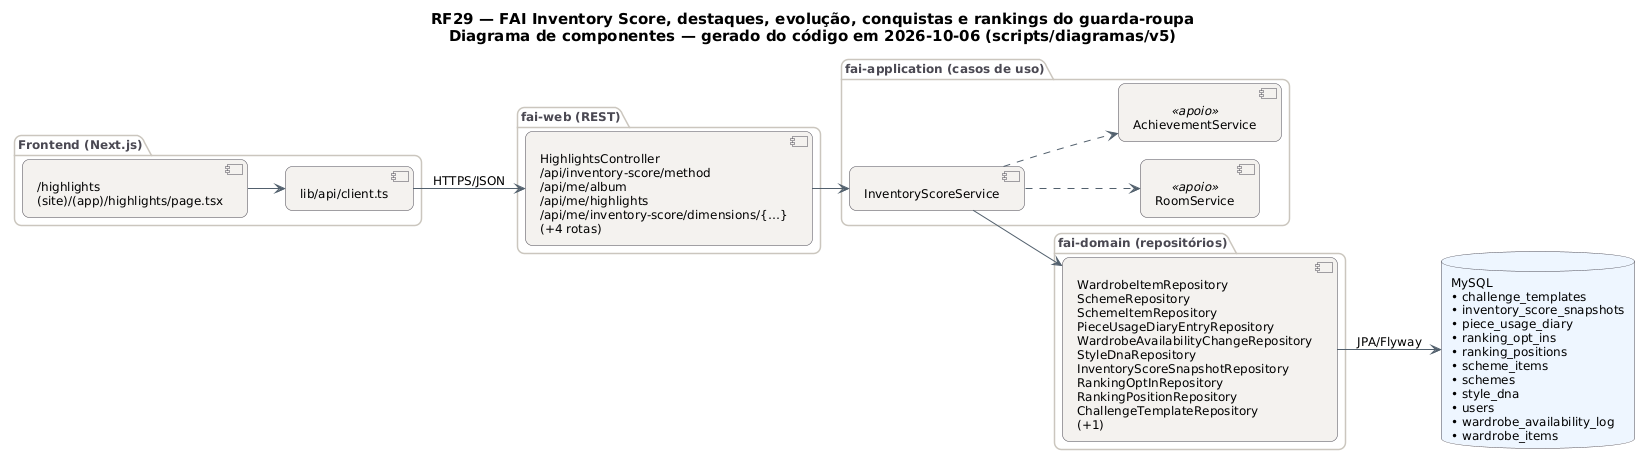
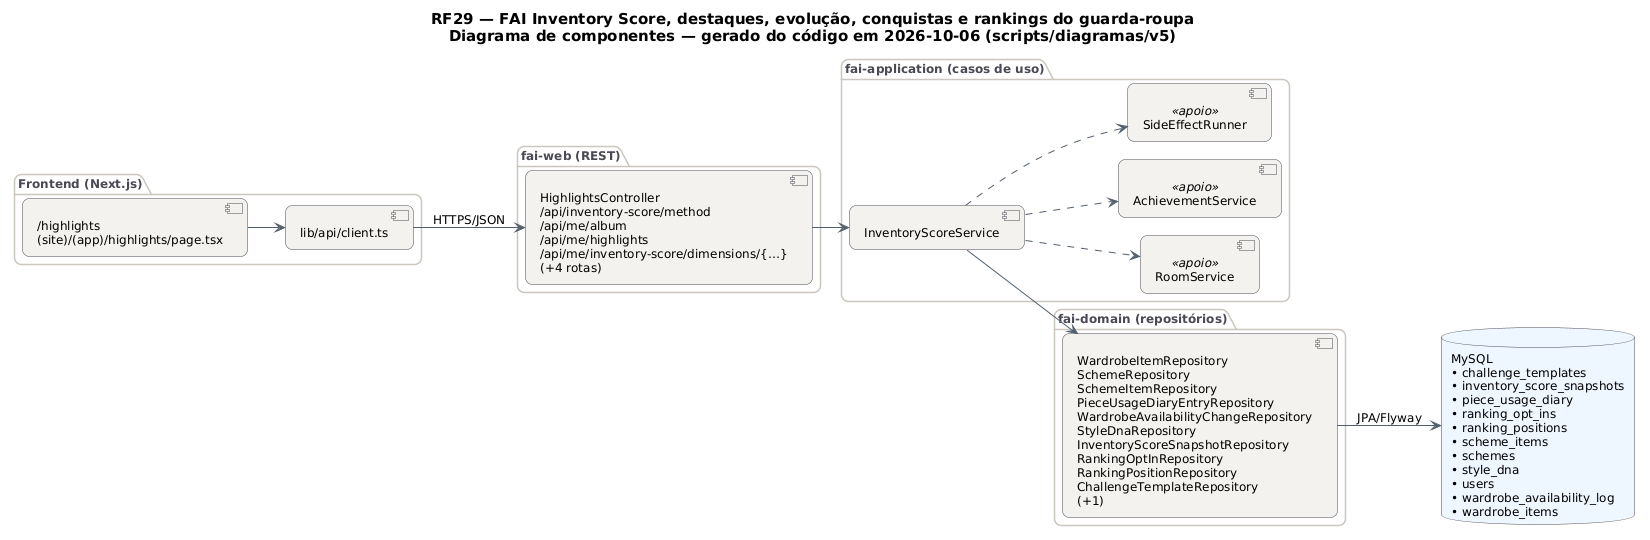
Espelho: escolher qualquer peça do guarda-roupa por parte do look (WARDROBE-FIX)
- Novo GET /api/me/mirror/wardrobe?slot=: lista todas as peças elegíveis
  do slot (mesmas regras do Vista-me: disponíveis, na estação, permitidas
  pelo desafio), marca as que já estão no espelho e não usa IA. Slot vazio
  devolve a mensagem e o link para cadastrar peça.
- Tela do espelho: botão "Do guarda-roupa" em cada parte do look, ao lado
  do "Sugerir"; a linha quebra em telas estreitas.
- Quarto: "Levar ao espelho" fecha a etiqueta e foca o espelho.
- POST /api/me/mirror/pieces sem pieceId devolve 400 PECA_OBRIGATORIA
  (antes: 500 ao buscar id nulo); slotOf aceita peça sem subcategoria.
- InventoryScoreService grava o snapshot do dia/mês e as conquistas em
  transação própria: o quarto pede /api/me/room e /room/list juntos e a
  segunda gravação batia em uq_inv_snap, devolvendo 500 à tela.
- Diagramas do RF28/RF29 regenerados com a rota e a validação novas.

Testes: MirrorWardrobePickerTest (4), suíte do backend e do frontend,
typecheck, i18n:check; ponta a ponta local com Playwright no espelho e
no quarto; 20 leituras simultâneas do quarto sem nenhum 500.

Claude-Session: https://claude.ai/code/session_01F9izb54cwzjj9BQQabn6GG

diff --git a/app/(site)/(app)/mirror/page.tsx b/app/(site)/(app)/mirror/page.tsx
@@ -10,7 +10,7 @@ import { Button, Card, Dialog, ErrorState, Field, Input, PageHeader, SegmentPick
 import { FaiIcon } from "@/components/fai-icon";
 import { MirrorStage, MirrorWornStrip, type MirrorMode } from "@/components/mirror/mirror-stage";
 
-interface MPiece { id: string; name: string; imageUrl?: string; thumbnailUrl?: string; category?: string; subcategory?: string; color?: string; colorHex?: string; addressLabel?: string; }
+interface MPiece { id: string; name: string; imageUrl?: string; thumbnailUrl?: string; category?: string; subcategory?: string; color?: string; colorHex?: string; addressLabel?: string; inMirror?: boolean; }
 interface State { slots: Record<string, MPiece | MPiece[] | null>; complete: boolean; missing: { slot: string; action: string; message: string }[]; warnings?: string[]; origin?: string; prompt?: string | null; interpretation?: Record<string, unknown> | null; actions?: string[]; silhouette?: string | null; postIt?: string | null; light?: { kelvin: number; label?: string }; restriction?: { challenge: string } | null; shownCount?: number; }
 const SLOT_LABEL: Record<string, string> = { get outer_layer() { return tr("common.camada_externa"); }, get upper() { return tr("common.superior"); }, get dress() { return tr("mirror.vestido"); }, get lower() { return tr("common.inferior"); }, get shoes() { return tr("mirror.calcados"); }, get accessory() { return tr("mirror.acessorios"); } };
 
@@ -20,7 +20,9 @@ function MirrorInner() {
   const [prompt, setPrompt] = useState(""); const [keep, setKeep] = useState(false); const [busy, setBusy] = useState<string | null>(null);
   // Reflexo 3D (cena viva) ou Prévia 2D (a foto parada do mesmo avatar); ?vista=2d abre direto na prévia
   const [mode, setMode] = useState<MirrorMode>(() => (sp.get("vista") === "2d" ? "2d" : "3d"));
-  const [suggest, setSuggest] = useState<{ slot: string; alternatives: MPiece[]; message?: string } | null>(null); const [grwm, setGrwm] = useState<{ steps?: { title?: string; text?: string; pieceId?: string }[]; title?: string } | null>(null); const [saveTitle, setSaveTitle] = useState<string | null>(null);
+  const [suggest, setSuggest] = useState<{ slot: string; alternatives: MPiece[]; message?: string } | null>(null);
+  // escolher à mão, do guarda-roupa (sem IA): todas as peças que podem ir para o slot
+  const [pick, setPick] = useState<{ slot: string; pieces: MPiece[]; message?: string; href?: string } | null>(null); const [grwm, setGrwm] = useState<{ steps?: { title?: string; text?: string; pieceId?: string }[]; title?: string } | null>(null); const [saveTitle, setSaveTitle] = useState<string | null>(null);
   useEffect(() => { const pid = sp.get("piece"); if (pid) api.post<State>("/api/me/mirror/pieces", { pieceId: pid }).then(setData).catch((e) => toast.fromError(e)); }, [sp]); // eslint-disable-line react-hooks/exhaustive-deps
   const run = async (key: string, fn: () => Promise<State | Record<string, unknown>>, ok?: string) => { setBusy(key); try { const r = await fn(); if ((r as State).slots) setData(r as State); else reload(); if (ok) toast.success(ok); if ((r as { message?: string }).message && !(r as State).slots) toast.info(String((r as { message?: string }).message)); return r; } catch (e) { toast.fromError(e); } finally { setBusy(null); } };
   if (error) return <ErrorState error={error} onRetry={reload} />;
@@ -65,7 +67,7 @@ function MirrorInner() {
           </Card>
           <Card>
             <h2 className="type-h3 mb-2">{t("mirror.slots")}</h2>
-            <ul className="fai-list">{Object.entries(SLOT_LABEL).map(([slot, lbl]) => { const v = data.slots[slot]; const items = Array.isArray(v) ? v : v ? [v] : []; const miss = data.missing.find((m) => m.slot === slot); return <li key={slot} className="flex items-center gap-3 py-2"><span className="w-28 type-label text-muted">{lbl}</span><span className="flex-1 type-body">{items.length ? items.map((p) => p.name).join(", ") : <span className="text-faint">{miss?.message ?? "—"}</span>}</span><Button size="sm" onClick={async () => { const r = await run("sug", () => api.get(`/api/me/mirror/suggestions?slot=${slot}`)); if (r) setSuggest(r as typeof suggest); }}><FaiIcon id={slot === "shoes" ? "ACT-35" : "ACT-34"} size={24} decorative />{miss?.action ?? t("mirror.sugerir")}</Button></li>; })}</ul>
+            <ul className="fai-list">{Object.entries(SLOT_LABEL).map(([slot, lbl]) => { const v = data.slots[slot]; const items = Array.isArray(v) ? v : v ? [v] : []; const miss = data.missing.find((m) => m.slot === slot); return <li key={slot} className="flex flex-wrap items-center gap-x-3 gap-y-2 py-2"><span className="w-28 type-label text-muted">{lbl}</span><span className="min-w-[12rem] flex-1 type-body">{items.length ? items.map((p) => p.name).join(", ") : <span className="text-faint">{miss?.message ?? "—"}</span>}</span><span className="flex flex-wrap gap-2"><Button size="sm" onClick={async () => { setBusy("pick"); try { setPick(await api.get(`/api/me/mirror/wardrobe?slot=${slot}`)); } catch (e) { toast.fromError(e); } finally { setBusy(null); } }} disabled={busy === "pick"}><FaiIcon id="ACT-32" size={24} decorative />{t("mirror.do_guarda_roupa")}</Button><Button size="sm" onClick={async () => { const r = await run("sug", () => api.get(`/api/me/mirror/suggestions?slot=${slot}`)); if (r) setSuggest(r as typeof suggest); }}><FaiIcon id={slot === "shoes" ? "ACT-35" : "ACT-34"} size={24} decorative />{miss?.action ?? t("mirror.sugerir")}</Button></span></li>; })}</ul>
             {data.warnings?.length ? <ul className="fai-list mt-2 type-caption text-chalk">{data.warnings.map((w) => <li key={w}>⚠ {w}</li>)}</ul> : null}
           </Card>
           <div className="flex flex-wrap gap-2">
@@ -76,6 +78,10 @@ function MirrorInner() {
           </div>
         </div>
       </div>
+      <Dialog open={!!pick} onClose={() => setPick(null)} title={t("mirror.escolher_do_guarda_roupa", { value: SLOT_LABEL[pick?.slot ?? ""] ?? "" })}>
+        {pick?.message && <p className="type-body text-muted mb-2">{pick.message} {pick.href && <Link href={pick.href} className="underline">{t("mirror.adicionar_peca")}</Link>}</p>}
+        <div className="grid grid-cols-3 gap-2" data-testid="mirror-wardrobe-picker">{(pick?.pieces ?? []).map((p) => <button key={p.id} type="button" className="surface p-2 text-left hover:bg-surface-2 disabled:opacity-60" disabled={p.inMirror} aria-pressed={p.inMirror} onClick={() => { run("place", () => api.post("/api/me/mirror/pieces", { pieceId: p.id }), t("room.peca_no_espelho")); setPick(null); }}><img src={mediaUrl(p.thumbnailUrl ?? p.imageUrl)} alt="" className="aspect-square w-full object-contain" /><span className="block truncate type-caption">{p.name}</span>{p.inMirror ? <span className="block type-caption text-muted">{t("mirror.ja_no_espelho")}</span> : p.addressLabel && <span className="block truncate type-caption text-faint">{p.addressLabel}</span>}</button>)}</div>
+      </Dialog>
       <Dialog open={!!suggest} onClose={() => setSuggest(null)} title={t("mirror.sugestoes", { value: SLOT_LABEL[suggest?.slot ?? ""] ?? "" })}>
         {suggest?.message && <p className="type-body text-muted mb-2">{suggest.message}</p>}
         <div className="grid grid-cols-3 gap-2">{(suggest?.alternatives ?? []).map((p) => <button key={p.id} type="button" className="surface p-2 text-left hover:bg-surface-2" onClick={() => { run("place", () => api.post("/api/me/mirror/pieces", { pieceId: p.id })); setSuggest(null); }}><img src={mediaUrl(p.thumbnailUrl ?? p.imageUrl)} alt="" className="aspect-square w-full object-contain" /><span className="block truncate type-caption">{p.name}</span></button>)}</div>

diff --git a/app/(site)/(app)/room/page.tsx b/app/(site)/(app)/room/page.tsx
@@ -281,7 +281,7 @@ function RoomInner() {
         {copilot.text && <p className="type-body-sm whitespace-pre-line">{copilot.text}</p>}
         {copilot.point && <p className="type-caption text-muted mt-1">{t("room.o_busto_esta_apontando_para", { replace: copilot.point.replace("door:", t("room.porta")).replace("drawer:", t("room.gaveta_2")) })}</p>}
       </Dialog>
-      <Dialog open={!!tag} onClose={() => setTag(null)} title={t("room.etiqueta_costurada")} footer={tag ? <><Button onClick={() => act(() => api.post("/api/me/mirror/pieces", { pieceId: tag.id }), t("room.peca_no_espelho")).then(() => mirror.reload())}>{t("room.levar_ao_espelho")}</Button><Button variant="primary" onClick={() => { const id = tag.id; setTag(null); modal?.openPiece(id); }}>{t("room.ver_peca_completa")}</Button></> : undefined}>
+      <Dialog open={!!tag} onClose={() => setTag(null)} title={t("room.etiqueta_costurada")} footer={tag ? <><Button onClick={() => { const id = tag.id; act(async () => { await api.post("/api/me/mirror/pieces", { pieceId: id }); setTag(null); frame("mirror"); }, t("room.peca_no_espelho")).then(() => mirror.reload()); }}>{t("room.levar_ao_espelho")}</Button><Button variant="primary" onClick={() => { const id = tag.id; setTag(null); modal?.openPiece(id); }}>{t("room.ver_peca_completa")}</Button></> : undefined}>
         {tag && <div className="sewn-tag">
           <p className="sewn-tag-brand">{t("room.fai", { name: tag.name })}</p>
           <dl>

diff --git a/fai-application/src/test/java/br/com/fashionai/application/service/MirrorWardrobePickerTest.java b/fai-application/src/test/java/br/com/fashionai/application/service/MirrorWardrobePickerTest.java
@@ -1,0 +1,120 @@
+package br.com.fashionai.application.service;
+
+import br.com.fashionai.application.ai.AiEngine;
+import br.com.fashionai.application.audit.Audit;
+import br.com.fashionai.application.common.ApiException;
+import br.com.fashionai.application.security.CurrentUser;
+import br.com.fashionai.domain.model.MirrorState;
+import br.com.fashionai.domain.model.WardrobeItem;
+import br.com.fashionai.domain.model.enums.AccountStatus;
+import br.com.fashionai.domain.model.enums.AvailabilityStatus;
+import br.com.fashionai.domain.model.enums.ProfileType;
+import br.com.fashionai.domain.repository.MirrorStateRepository;
+import br.com.fashionai.domain.repository.SchemeItemRepository;
+import br.com.fashionai.domain.repository.SchemeRepository;
+import br.com.fashionai.domain.repository.StyleDnaRepository;
+import br.com.fashionai.domain.repository.WardrobeItemRepository;
+import org.junit.jupiter.api.BeforeEach;
+import org.junit.jupiter.api.Test;
+import org.springframework.beans.factory.ObjectProvider;
+import org.springframework.context.ApplicationEventPublisher;
+import org.springframework.test.util.ReflectionTestUtils;
+
+import java.util.List;
+import java.util.Map;
+import java.util.Optional;
+import java.util.Set;
+import java.util.UUID;
+import java.util.stream.Stream;
+
+import static org.assertj.core.api.Assertions.assertThat;
+import static org.assertj.core.api.Assertions.assertThatThrownBy;
+import static org.mockito.ArgumentMatchers.any;
+import static org.mockito.Mockito.mock;
+import static org.mockito.Mockito.verifyNoInteractions;
+import static org.mockito.Mockito.when;
+
+/**
+ * WARDROBE-FIX: no espelho, a pessoa escolhe qualquer peça do guarda-roupa para um slot, sem IA. A lista segue as
+ * mesmas regras do Vista-me (só peças elegíveis) e marca as que já estão no espelho.
+ */
+class MirrorWardrobePickerTest {
+
+    private final UUID userId = UUID.randomUUID();
+    private final CurrentUser user = new CurrentUser(userId, "ana", "USER", ProfileType.PESSOAL, true, AccountStatus.ACTIVE, null, null);
+    private MirrorStateRepository mirrors;
+    private WardrobeService wardrobe;
+    private AiEngine ai;
+    private MirrorService service;
+
+    @SuppressWarnings("unchecked")
+    @BeforeEach
+    void setUp() {
+        mirrors = mock(MirrorStateRepository.class);
+        wardrobe = mock(WardrobeService.class);
+        RoomService room = mock(RoomService.class);
+        ai = mock(AiEngine.class);
+        ObjectProvider<MirrorService.PieceRestrictionProvider> restrictions = mock(ObjectProvider.class);
+        when(restrictions.orderedStream()).thenAnswer(i -> Stream.empty());
+        when(room.outOfSeason(userId)).thenReturn(Set.of());
+        when(room.locateAll(userId)).thenReturn(Map.of());
+        service = new MirrorService(mirrors, mock(WardrobeItemRepository.class), wardrobe, room, mock(SchemeService.class),
+                mock(SchemeRepository.class), mock(SchemeItemRepository.class), mock(DailyLookService.class), mock(StyleDnaRepository.class),
+                restrictions, ai, mock(Audit.class), mock(ApplicationEventPublisher.class));
+    }
+
+    private WardrobeItem piece(String name, String category) {
+        WardrobeItem w = new WardrobeItem();
+        ReflectionTestUtils.setField(w, "id", UUID.randomUUID());
+        w.setName(name);
+        w.setCategory(category);
+        w.setDisponivel(true);
+        w.setAvailabilityStatus(AvailabilityStatus.AVAILABLE);
+        return w;
+    }
+
+    @Test
+    @SuppressWarnings("unchecked")
+    void listsEveryEligiblePieceOfTheSlotAndMarksTheOneAlreadyInTheMirror() {
+        WardrobeItem shirt = piece("Camisa linho", "upper_piece");
+        shirt.setSubcategory("camisa");
+        WardrobeItem polo = piece("Polo azul", "upper_piece");   // sem subcategoria (cadastro antigo): continua "upper"
+        WardrobeItem jeans = piece("Jeans reto", "lower_piece");
+        when(wardrobe.eligible(userId)).thenReturn(List.of(shirt, polo, jeans));
+        MirrorState state = new MirrorState();
+        state.setUserId(userId);
+        state.setSlotsJson("{\"upper\":\"" + shirt.getId() + "\"}");
+        when(mirrors.findByUserId(userId)).thenReturn(Optional.of(state));
+
+        Map<String, Object> out = service.wardrobe(user, "upper");
+
+        List<Map<String, Object>> pieces = (List<Map<String, Object>>) out.get("pieces");
+        assertThat(pieces).extracting(p -> p.get("name")).containsExactly("Camisa linho", "Polo azul");
+        assertThat(pieces).extracting(p -> p.get("inMirror")).containsExactly(true, false);
+        assertThat(out).doesNotContainKey("message");
+        verifyNoInteractions(ai);   // escolha manual: nenhuma chamada de IA
+    }
+
+    @Test
+    void emptySlotPointsToAddingAPieceInsteadOfFailing() {
+        when(wardrobe.eligible(userId)).thenReturn(List.of(piece("Jeans reto", "lower_piece")));
+        when(mirrors.findByUserId(any())).thenReturn(Optional.empty());
+
+        Map<String, Object> out = service.wardrobe(user, "shoes");
+
+        assertThat((List<?>) out.get("pieces")).isEmpty();
+        assertThat(out.get("href")).isEqualTo("/pieces/new");
+        assertThat(out.get("message")).isNotNull();
+    }
+
+    @Test
+    void placingWithoutAPieceIsABadRequestNotAServerError() {
+        assertThatThrownBy(() -> service.place(user, null)).isInstanceOf(ApiException.class)
+                .satisfies(e -> assertThat(((ApiException) e).status()).isEqualTo(400));
+    }
+
+    @Test
+    void rejectsAnUnknownSlot() {
+        assertThatThrownBy(() -> service.wardrobe(user, "chapeu")).isInstanceOf(ApiException.class);
+    }
+}

diff --git a/fai-application/src/main/java/br/com/fashionai/application/service/MirrorService.java b/fai-application/src/main/java/br/com/fashionai/application/service/MirrorService.java
@@ -113,7 +113,7 @@ public class MirrorService {
     public static String slotOf(WardrobeItem w) {
         String cat = w.getCategory() == null ? "" : w.getCategory();
         return switch (cat) {
-            case "upper_piece" -> RoomService.OUTERWEAR.contains(w.getSubcategory()) ? "outer_layer" : "upper";
+            case "upper_piece" -> w.getSubcategory() != null && RoomService.OUTERWEAR.contains(w.getSubcategory()) ? "outer_layer" : "upper";
             case "lower_piece" -> "lower";
             case "full_body_piece" -> "dress";
             case "shoes_piece" -> "shoes";
@@ -341,6 +341,9 @@ public class MirrorService {
     // ================================================================== montagem manual (CA01/CA02/CA05)
     @Transactional
     public Map<String, Object> place(CurrentUser user, UUID pieceId) {
+        if (pieceId == null) {   // corpo sem pieceId: 400 com a mensagem, não erro interno ao buscar id nulo
+            throw ApiException.badRequest("PECA_OBRIGATORIA", Msg.t("mirror.escolha_uma_peca"));
+        }
         WardrobeItem w = wardrobe.owned(user, pieceId);
         MirrorState s = stateEntity(user.id());
         Map<String, Object> slots = slots(s);
@@ -517,6 +520,37 @@ public class MirrorService {
         out.put("explanation", outcome.explanation());
         out.put("quota", outcome.quota());
         out.put("message", outcome.userMessage());
+        return out;
+    }
+
+    // ================================================================== escolher do guarda-roupa (WARDROBE-FIX)
+    /**
+     * Todas as peças que podem ir para o slot, para a pessoa escolher à mão: sem IA e sem custo. As mesmas regras do
+     * Vista-me valem aqui (só disponíveis, dentro da estação, permitidas pelo desafio ativo); as que já estão no espelho
+     * vêm marcadas.
+     */
+    @Transactional(readOnly = true)
+    public Map<String, Object> wardrobe(CurrentUser user, String slot) {
+        if (!SLOTS.contains(slot)) {
+            throw ApiException.badRequest("SLOT_INVALIDO", "Slots: " + SLOTS);
+        }
+        Set<UUID> inMirror = new HashSet<>(mirrors.findByUserId(user.id()).map(s -> allIds(slots(s))).orElse(List.of()));
+        Map<UUID, RoomService.Location> where = room.locateAll(user.id());
+        List<Map<String, Object>> pieces = new ArrayList<>();
+        for (WardrobeItem w : eligible(user.id())) {
+            if (slotOf(w).equals(slot)) {
+                Map<String, Object> m = pieceView(w, where);
+                m.put("inMirror", inMirror.contains(w.getId()));
+                pieces.add(m);
+            }
+        }
+        Map<String, Object> out = new LinkedHashMap<>();
+        out.put("slot", slot);
+        out.put("pieces", pieces);
+        if (pieces.isEmpty()) {
+            out.put("message", Msg.t("mirror.voce_nao_tem_peca_disponivel"));
+            out.put("href", "/pieces/new");
+        }
         return out;
     }
 

diff --git a/fai-application/src/main/java/br/com/fashionai/application/service/InventoryScoreService.java b/fai-application/src/main/java/br/com/fashionai/application/service/InventoryScoreService.java
@@ -1,5 +1,6 @@
 package br.com.fashionai.application.service;
 
+import br.com.fashionai.application.events.SideEffectRunner;
 import br.com.fashionai.application.common.Msg;
 import br.com.fashionai.application.ai.local.ColorMath;
 import br.com.fashionai.application.common.ApiException;
@@ -141,12 +142,14 @@ public class InventoryScoreService {
     private final UserRepository users;
     private final RoomService room;
     private final AchievementService achievements;
+    private final SideEffectRunner sideEffects;
 
     public InventoryScoreService(WardrobeItemRepository pieces, SchemeRepository schemes, SchemeItemRepository schemeItems,
                                  PieceUsageDiaryEntryRepository diary, WardrobeAvailabilityChangeRepository availability,
                                  StyleDnaRepository dnas, InventoryScoreSnapshotRepository snapshots, RankingOptInRepository optIns,
                                  RankingPositionRepository positions, ChallengeTemplateRepository templates, UserRepository users,
-                                 RoomService room, AchievementService achievements) {
+                                 RoomService room, AchievementService achievements, SideEffectRunner sideEffects) {
+        this.sideEffects = sideEffects;
         this.pieces = pieces;
         this.schemes = schemes;
         this.schemeItems = schemeItems;
@@ -714,9 +717,12 @@ public class InventoryScoreService {
         metrics.put("undiscoveredSample", combos.sample().stream().map(l -> l.stream().map(UUID::toString).toList()).toList());
         metrics.put("usageCount", usage.entrySet().stream().collect(Collectors.toMap(e -> e.getKey().toString(), e -> e.getValue().size())));
         Result result = new Result(userId, eligible, n, k, eligible ? score : null, eligible ? band(score) : null, dims, metrics, explain, Instant.now());
-        snapshot(result, today);
-        if (eligible) {
-            checkAchievements(result, all, usageAll);
+        // snapshot do dia e do mês em transação própria: o quarto pede /api/me/room e /api/me/room/list ao mesmo tempo,
+        // os dois calculam o score e a segunda gravação batia na chave única (uq_inv_snap), marcando a transação de
+        // leitura como rollback-only — a tela recebia 500. Agora a corrida só perde o snapshot repetido.
+        sideEffects.run("snapshot do Inventory Score", () -> snapshot(result, today));
+        if (eligible) {   // mesma corrida na conquista (user_achievements tem chave única): também isolada
+            sideEffects.run("conquistas do Inventory Score", () -> checkAchievements(result, all, usageAll));
         }
         return result;
     }

diff --git a/fai-web/src/main/java/br/com/fashionai/web/controller/MirrorController.java b/fai-web/src/main/java/br/com/fashionai/web/controller/MirrorController.java
@@ -54,6 +54,12 @@ public class MirrorController {
         return mirror.suggest(user, slot);
     }
 
+    @GetMapping("/wardrobe")
+    @Operation(summary = "RF33 — Peças do guarda-roupa que podem ir para um slot (escolha manual, sem IA)")
+    public Map<String, Object> wardrobe(CurrentUser user, @RequestParam String slot) {
+        return mirror.wardrobe(user, slot);
+    }
+
     public record VistaMeRequest(String prompt, List<UUID> anchorIds, UUID focusPieceId, Boolean keepMirror) {
     }
 

diff --git a/docs/plano/plano-mestre-2026-10-05.md b/docs/plano/plano-mestre-2026-10-05.md
@@ -29,6 +29,7 @@ entrega fecha com testes, métricas, documentação, commit e push no ramo `clau
 | AVATAR-ID I1 | Identidade versionada: refazer não apaga a aprovada; aprovar, restaurar, histórico | V42 + `Avatar3dService` |
 | AVATAR-ID I2 | Camada de resíduo assimétrico + medidas nomeadas: SFace de frente 0,369 → 0,476, top-1 15/15 | `face-residual.ts`, `face-profile.ts` |
 | AVATAR-ID I3 | Pele com balanço de branco pela esclera, rosto casado com o corpo: erro de cor 0,2, sem costura, gate 14/15 | `skin-tone.ts` |
+| WARDROBE-FIX | Espelho: botão "Do guarda-roupa" em cada parte do look lista todas as peças elegíveis do slot, sem IA (`GET /api/me/mirror/wardrobe`), com as que já estão no espelho marcadas; "Levar ao espelho" no quarto fecha a etiqueta e foca o espelho; `POST /api/me/mirror/pieces` sem peça devolve 400 (era 500); o snapshot e as conquistas do Inventory Score passam a gravar em transação própria — duas leituras simultâneas do quarto davam 500 por chave duplicada (`uq_inv_snap`) | `MirrorService.wardrobe`, `InventoryScoreService`, `mirror/page.tsx`, `room/page.tsx` |
 | DIAG-ALL | Todos os diagramas de atividades, sequência, componentes, estados e classes reescritos a partir do código (319 gerados; 7 de estados mantidos do time com legenda, porque o código não tem o estado equivalente) + globais v5 + índice | `scripts/diagramas/v5`, `docs/diagramas/INDICE-2026-10.md` |
 
 ---
@@ -37,7 +38,7 @@ entrega fecha com testes, métricas, documentação, commit e push no ramo `clau
 
 | # | Item | Por que nesta posição |
 |---|---|---|
-| 1 | **WARDROBE-FIX**: tirar a peça do guarda-roupa e provar no espelho (hoje não funciona) | Defeito funcional relatado em teste |
+| 1 | ~~**WARDROBE-FIX**~~ — entregue (seção 1) | — |
 | 2 | **AVATAR-ID I4–I7**: olhos (cor da íris, shader, ossos), cabelo e barba, rig facial, revisão visual, níveis de detalhe — **mais os itens de rosto e cabelo da lista de 29/09 (seção 5.2) e os acréscimos da especificação completa (seção 6)** | Continua a cadeia de identidade; o desfile e o quarto usam o mesmo avatar |
 | 3 | **GARMENT F0–F6**: moldes paramétricos, passes com restrições, XPBD, camadas, detalhes — **mais os itens de roupa da lista de 29/09 (seção 5.2) e o PROV-3D (seção 5.1)** | Base de "roupa que veste" e de "tecido com movimento natural" (itens 5 e 6) |
 | 4 | **CATALOG-IMG V2**: pipeline profissional das fotos oficiais da Busca Catalogada (seção 4) — **com o FRAME e o relatório de 79 perguntas (seção 5.1)** | Alimenta cards, IA, 2D, 3D e Hype Score |
